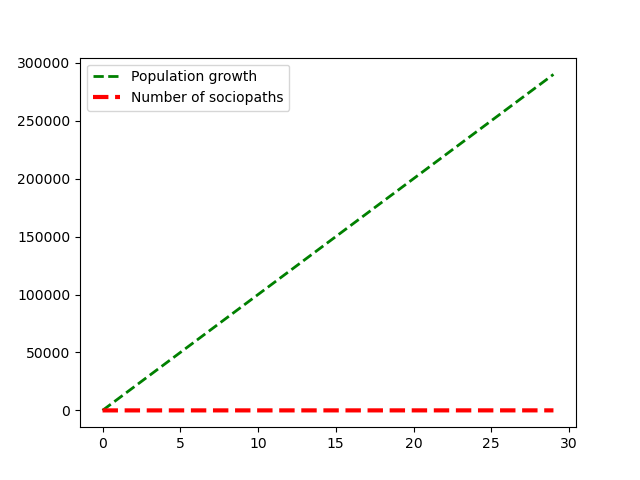
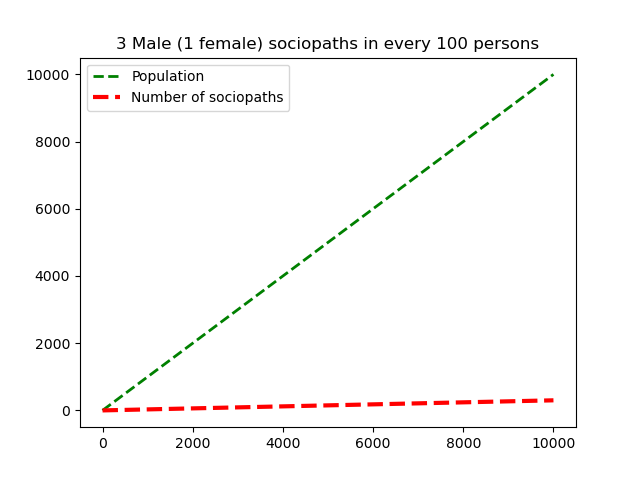
yes

diff --git a/python3/modules/matplotlib/plotting_complex_lines.py b/python3/modules/matplotlib/plotting_complex_lines.py
@@ -7,14 +7,15 @@ import numpy as np
 
 
 
-x = np.arange(0,30, 1)
+x = np.arange(0,10000, 1)
 
 print(x)
 
-# notice the squared expression below. Matplotlib will plot this. For every x list-value it will use the squared expression to plot it
-plt.plot(x*10000, 'g--', linewidth=2, label='Population growth')
-plt.plot(x, 'r--', linewidth=3, label='Number of sociopaths')
+# notice the expression below. Matplotlib will plot this. For every x list-value it will use calculate the expression to plot it
+plt.plot(x, 'g--', linewidth=2, label='Population')
+plt.plot(x*.03, 'r--', linewidth=3, label='Number of sociopaths')
 
+plt.title('3 Male (1 female) sociopaths in every 100 persons')
 
 plt.legend()
 
